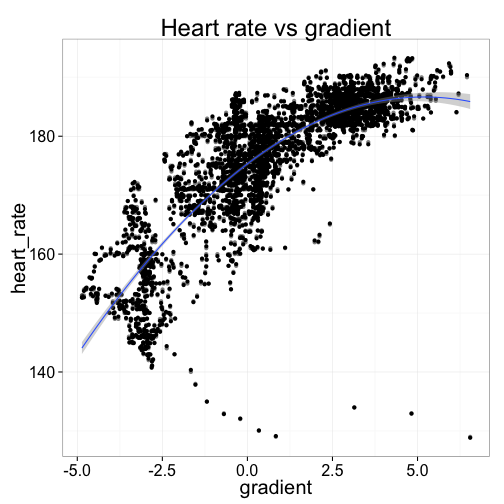
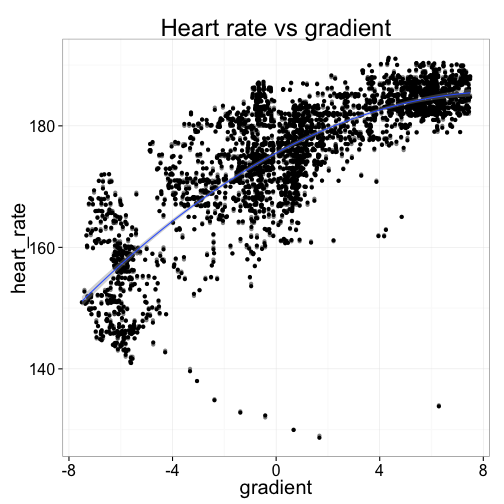
Documentation update.

diff --git a/README.md b/README.md
@@ -49,12 +49,12 @@ head(data$record)
 
 ```
 ##   altitude cadence distance heart_rate position_lat position_long speed temperature timestamp
-## 1     3839      78      874        159       -36.72         146.9  8739          31 759393569
-## 2     3839      78     3420        162       -36.72         146.9  8465          31 759393572
-## 3     3839      80     5987        164       -36.72         146.9  8634          31 759393575
-## 4     3839      82    10436        167       -36.72         146.9  8994          31 759393580
-## 5     3837      82    12235        167       -36.72         146.9  9032          31 759393582
-## 6     3837      82    13134        167       -36.72         146.9  8994          31 759393583
+## 1    267.8      78     8.74        159       -36.72         146.9 8.739          31 759393569
+## 2    267.8      78    34.20        162       -36.72         146.9 8.465          31 759393572
+## 3    267.8      80    59.87        164       -36.72         146.9 8.634          31 759393575
+## 4    267.8      82   104.36        167       -36.72         146.9 8.994          31 759393580
+## 5    267.4      82   122.35        167       -36.72         146.9 9.032          31 759393582
+## 6    267.4      82   131.34        167       -36.72         146.9 8.994          31 759393583
 ```
 
 The table contais data like GPS coordinates (latitude, longitude, altitude), cadence, heart rate, speed 
@@ -79,7 +79,7 @@ Here's a plot of my elevation, in meters, as a function of the number of minutes
 
 ```r
 library(ggplot2)
-pdata <- with(data$record, data.frame(alt = altitude*0.1, time = (timestamp-timestamp[1])/60))
+pdata <- with(data$record, data.frame(alt = altitude, time = (timestamp-timestamp[1])/60))
 ggplot(pdata, aes(y=alt, x=time)) + geom_line() +
   ggtitle("Elevation vs Time") + xlab("time (minutes)") + ylab("elevation (m)")
 ```
@@ -98,7 +98,7 @@ And what's really interesting is that the relationship is non-linear: as the roa
 ```r
 pdata <- data$record[-(1:10),c("heart_rate","timestamp")]
 # compute average gradient, as %
-pdata$gradient <- with(data$record, 100 * diff(altitude * 0.1,lag=10) / diff(distance * 0.01,lag=10))
+pdata$gradient <- with(data$record, 100 * diff(altitude,lag=10) / diff(distance,lag=10))
 pdata <- subset(pdata, complete.cases(pdata) & abs(gradient) < 7.5 & gradient != 0) # drop outliers
 ggplot(pdata, aes(x=gradient, y=heart_rate)) + 
   geom_point(alpha=0.5) + geom_jitter() +
@@ -149,11 +149,11 @@ ggmap(map, extent = "device") +
 But now look at the measured altitude over the same distance. The Bridge is cambered, so that its center is higher than the edges, but the road certainly isn't as jagged as the chart below suggests. (The steep drop at the 2km mark marks the stairs at the North Sydney end.) In reality, the bike would have travelled a smooth path, passing between the measured points. So the vertical error, although probably not all that big in absolute terms, is certainly large relative to the total vertical distance travelled.
 
 ```r
-ggplot(commute, aes(y=altitude*1e-1, x=distance*1e-2)) + 
-  geom_path() + ggtitle("Harbour Bridge bike lane: measured altitude") +
+ggplot(commute, aes(y=altitude, x=distance)) + 
+  geom_path() + ggtitle("Harbour Bridge bike lane: measured elevation") +
   xlab("distance (m)") + ylab("altitude (m)")
 ```
 
 ![plot of chunk unnamed-chunk-9](figure/unnamed-chunk-9.png) 
 
-Do have fun with the `fit` package and let me know if you do anything interesting with it.
+Have fun.
